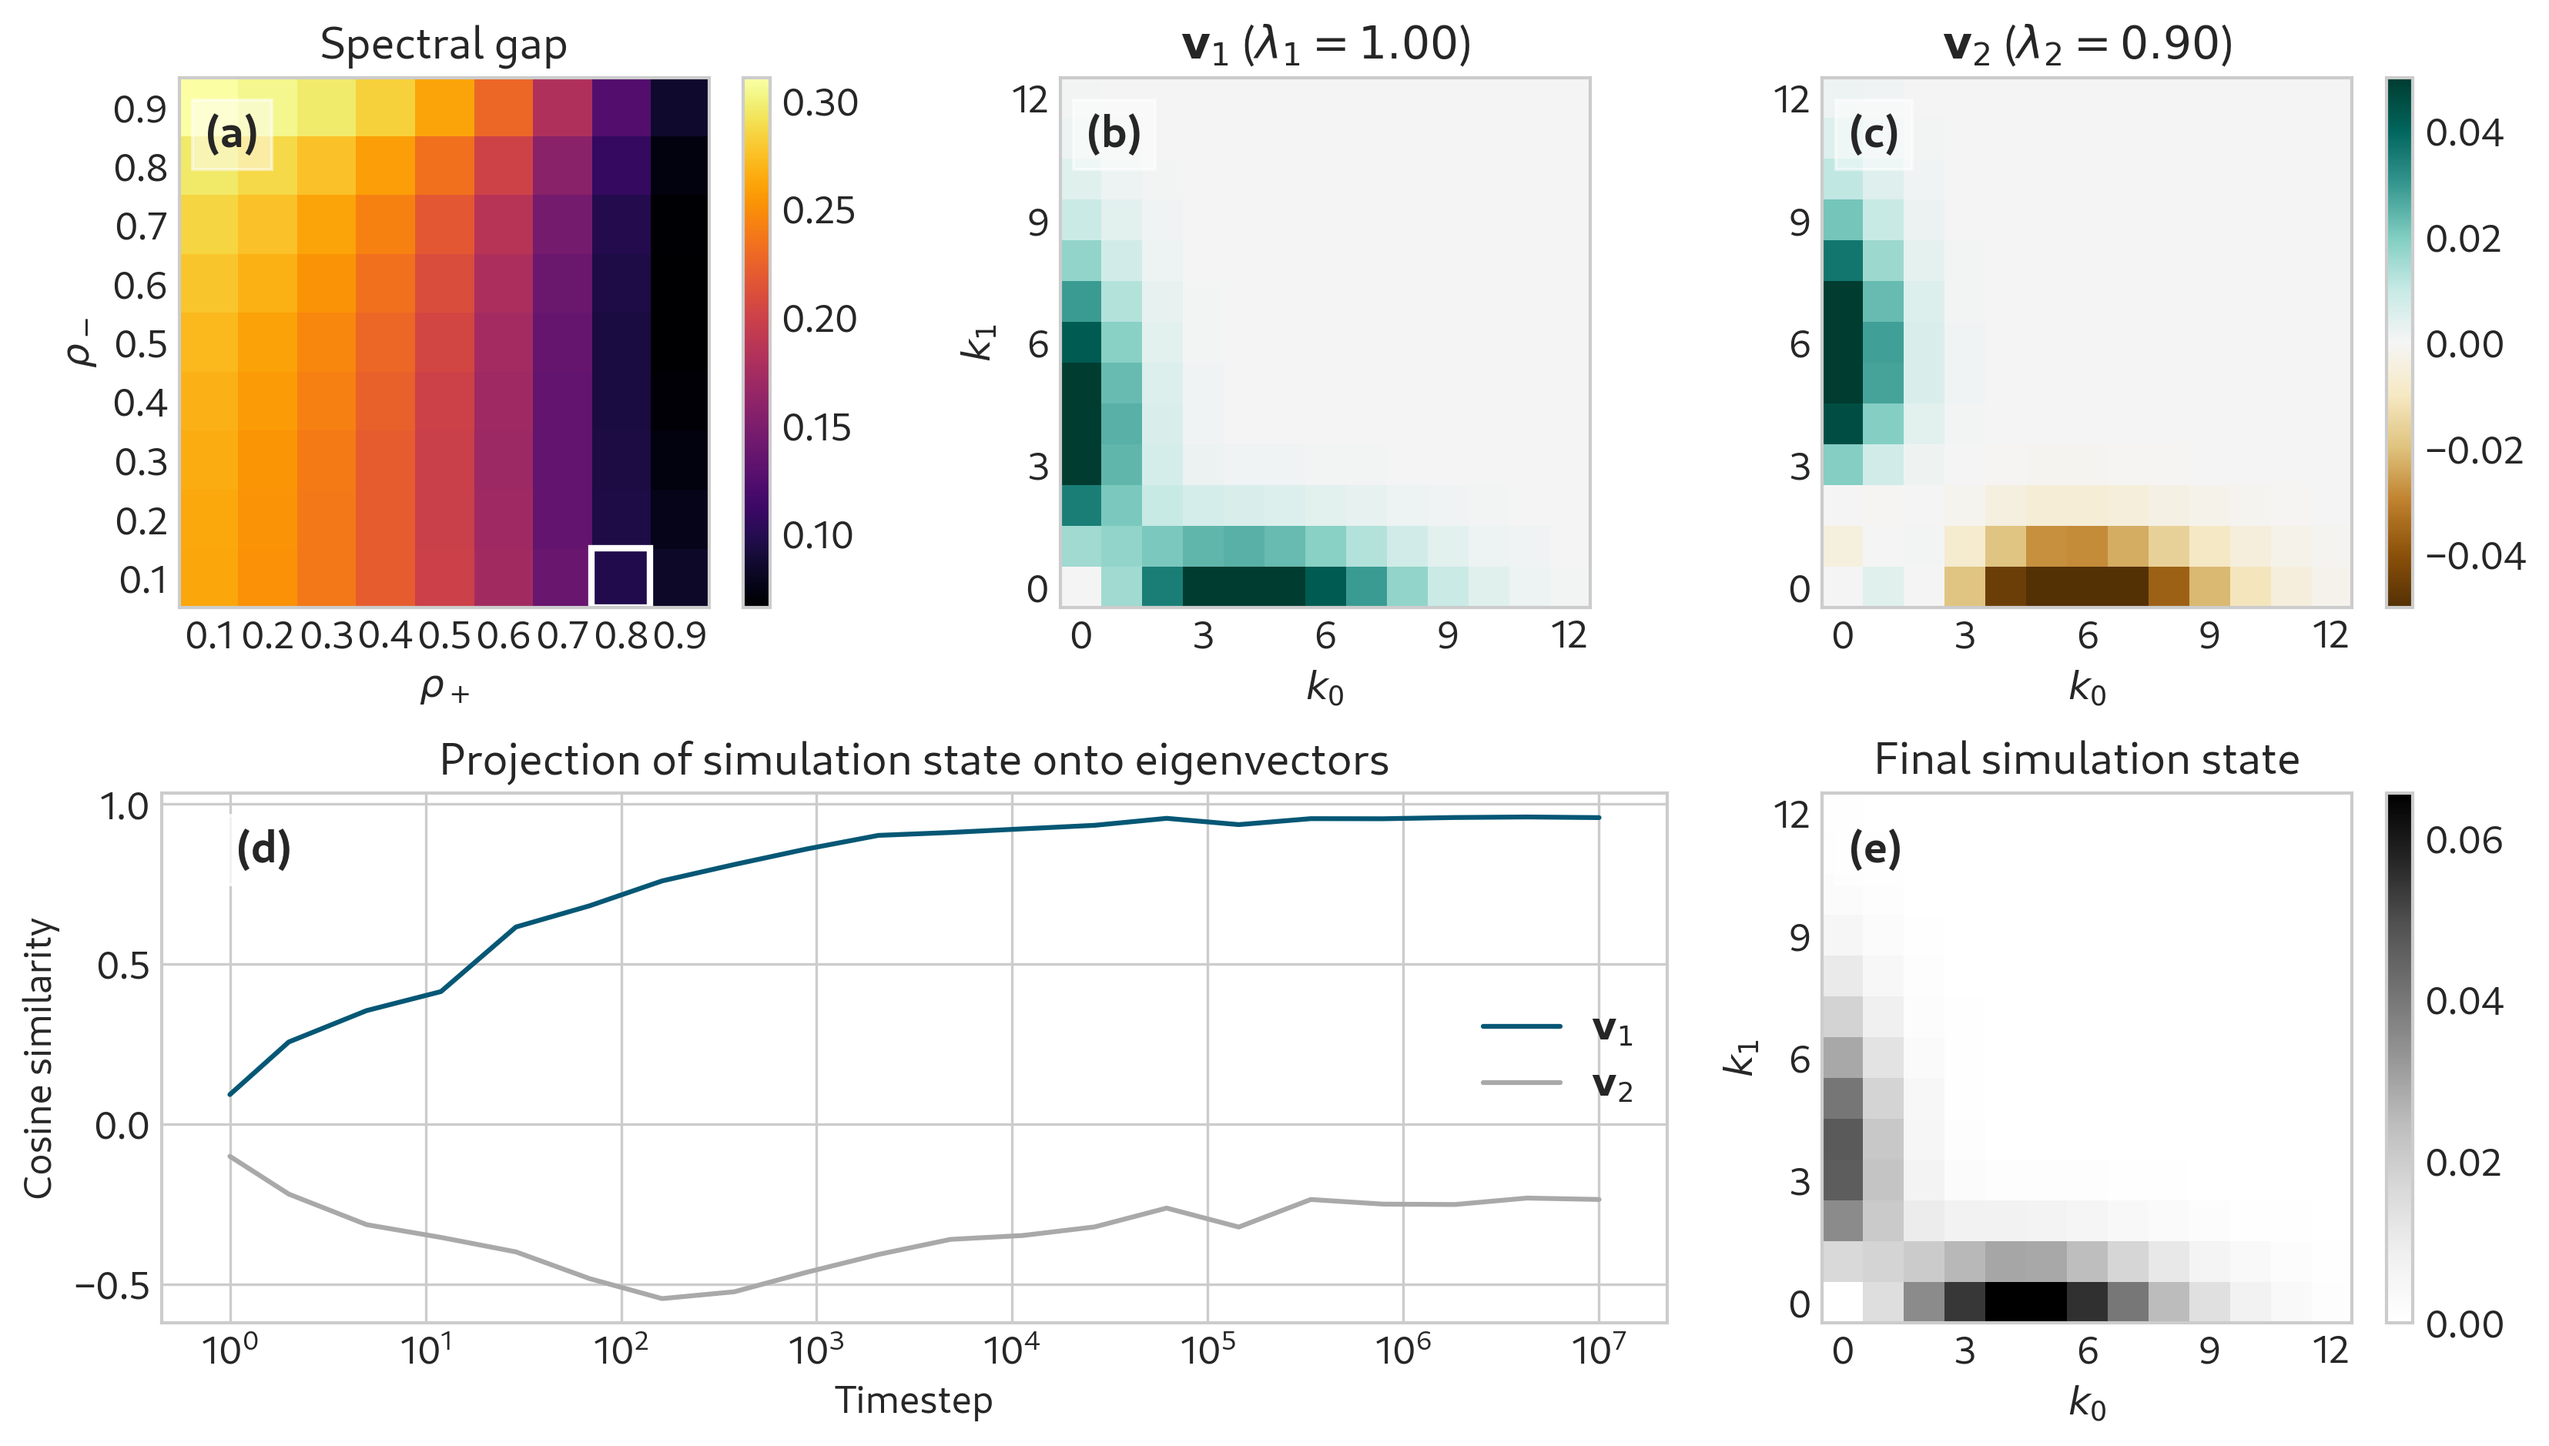
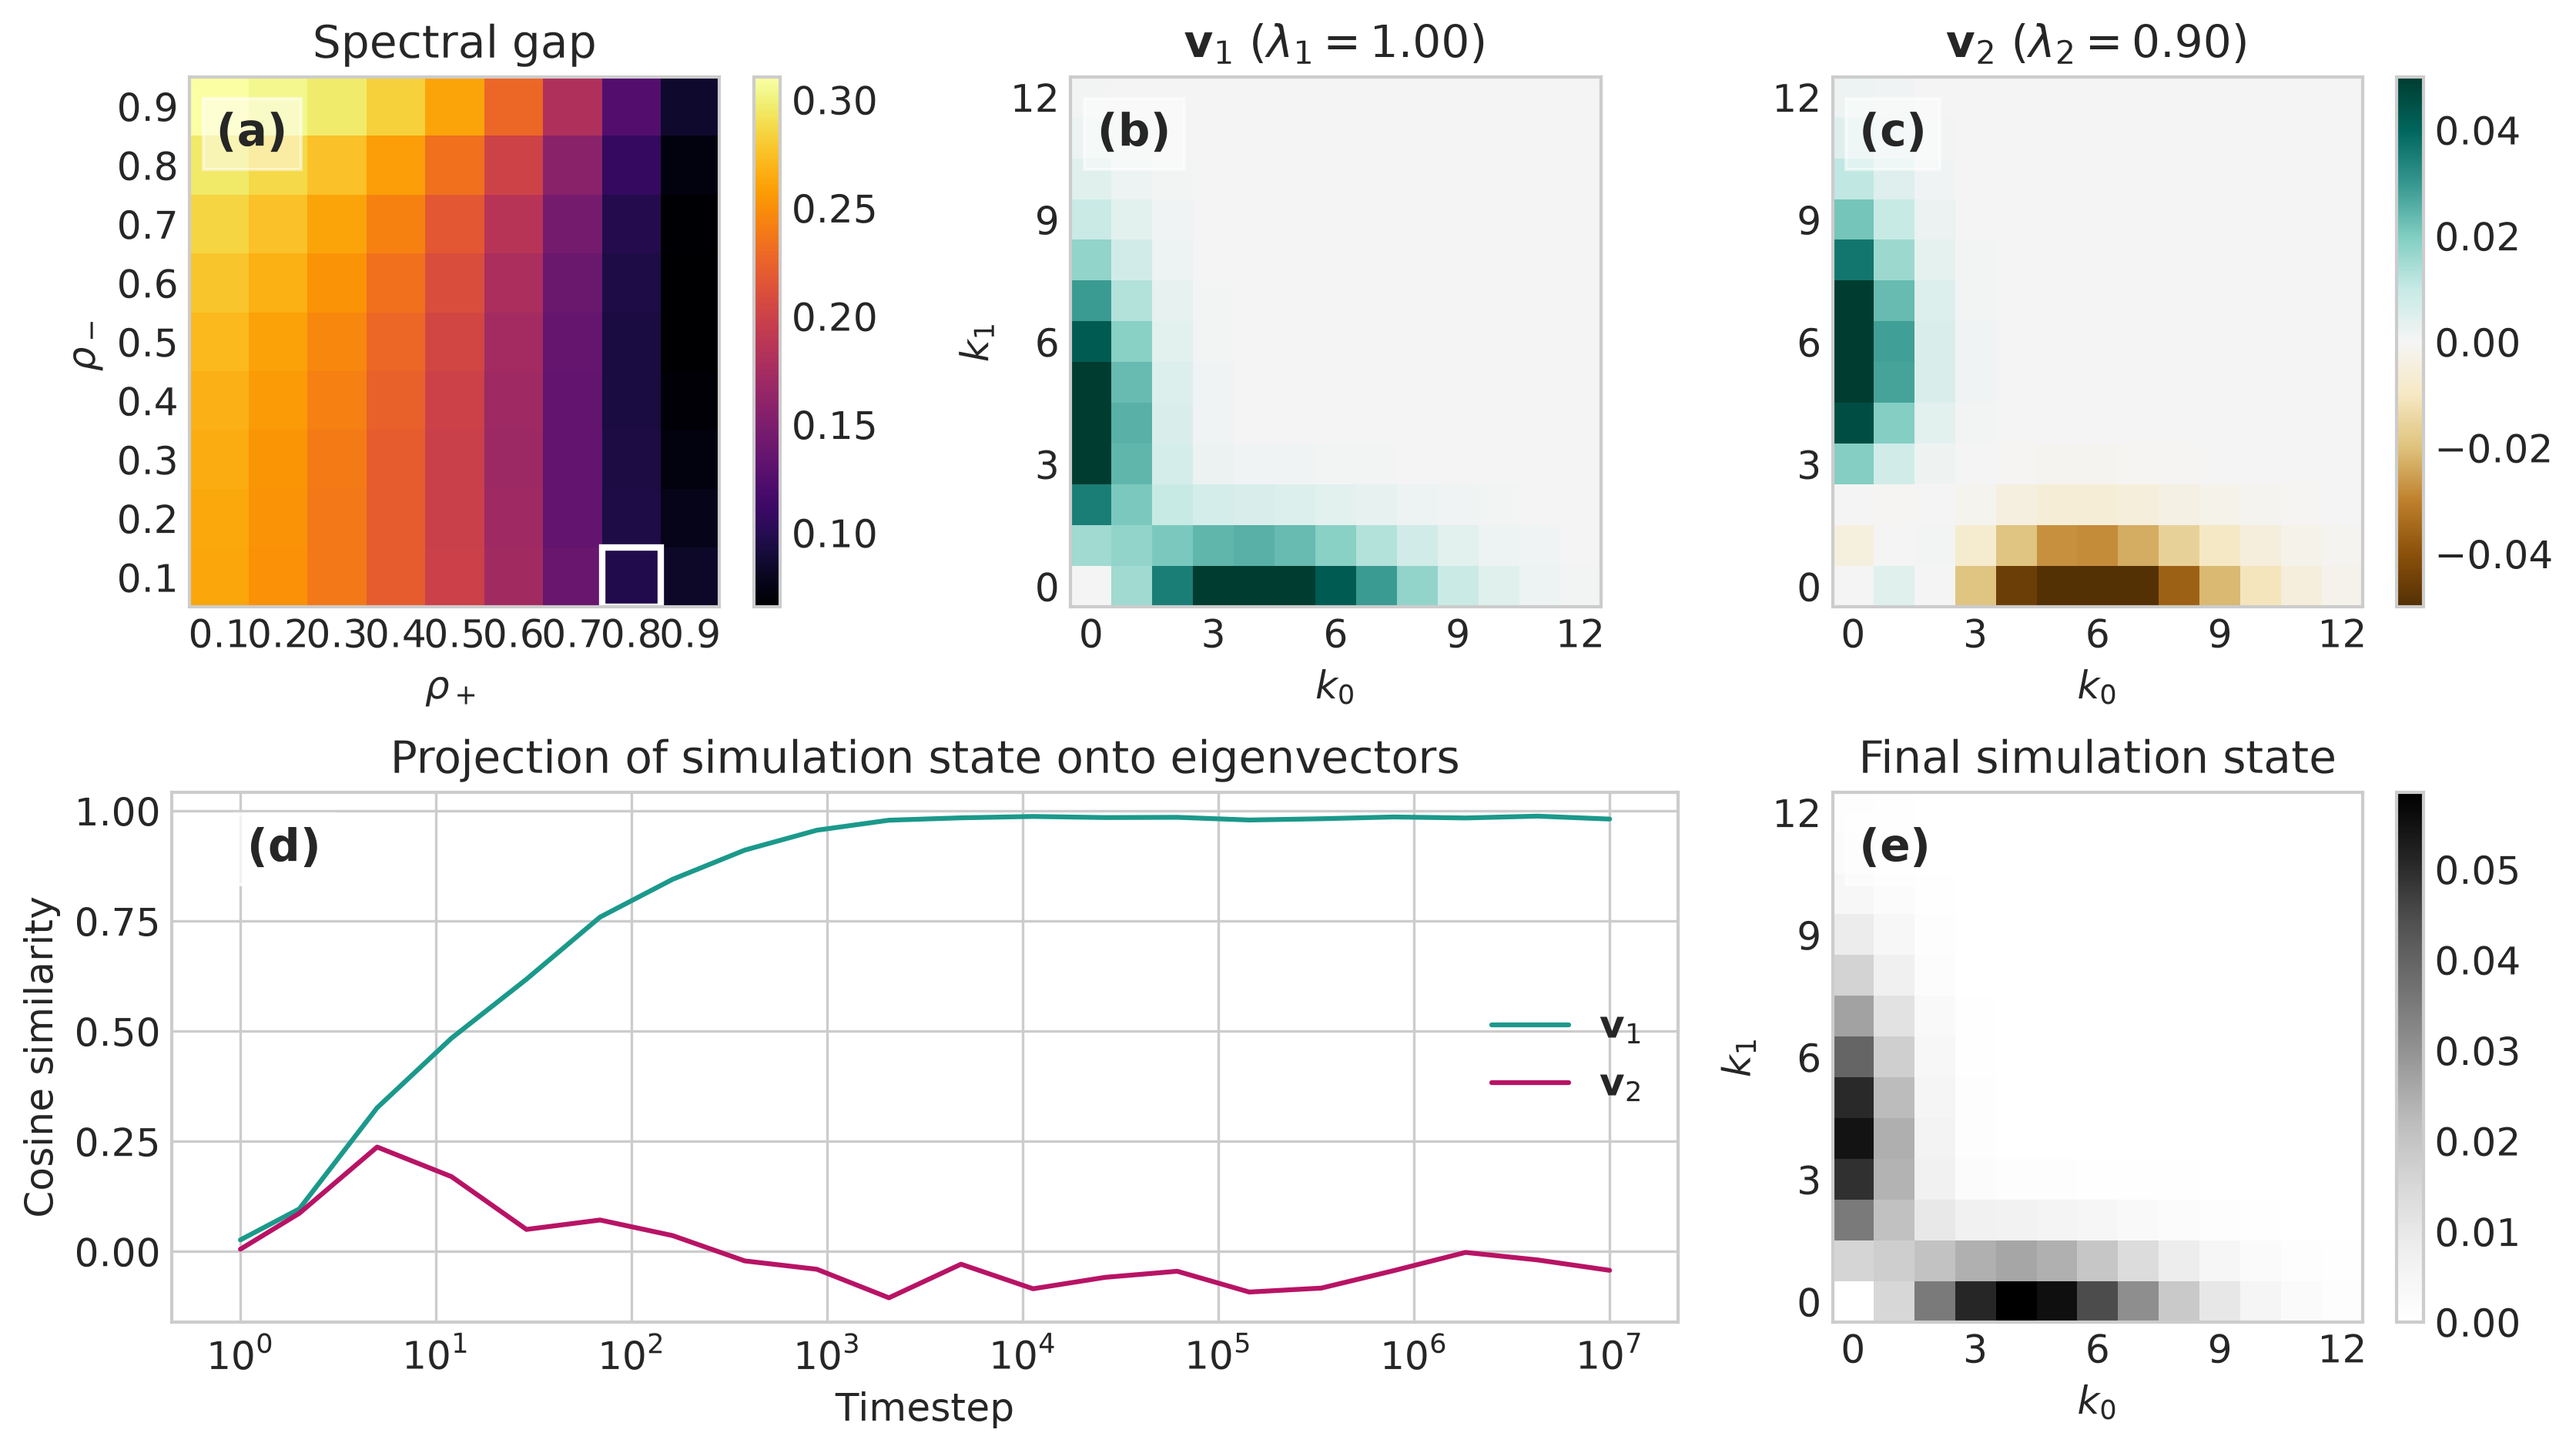
fig2 edits

diff --git a/scripts/stationarity.py b/scripts/stationarity.py
@@ -183,7 +183,8 @@ if __name__ == "__main__":
     
     # fig, ax = plt.subplots(1, 4, figsize = (18, 6))
     
-    colors = ["#055775", "darkgrey", "lightgrey"]
+    #colors = ["#055775", "darkgrey", "lightgrey"]
+    colors = ["#1B998B", "#B81365", "#E28413"]
     letter_labels = ["(b)", "(c)"]
     
     for i in range(2):
